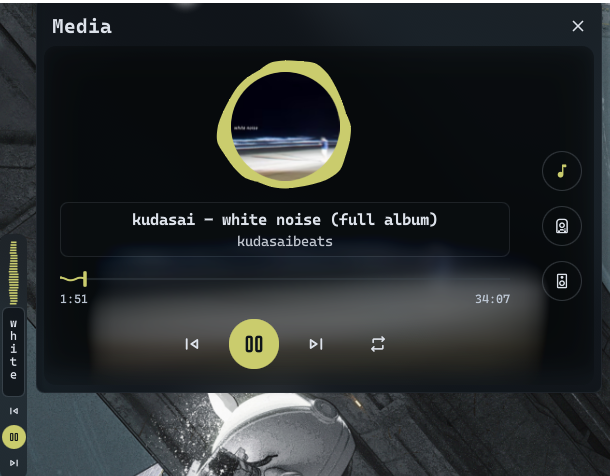
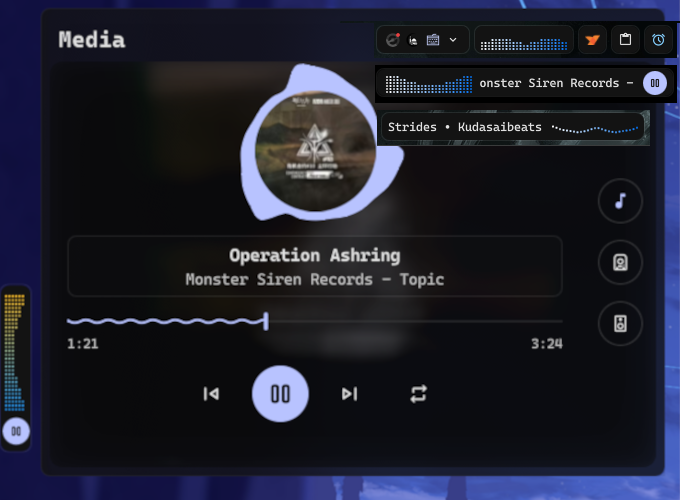
docs: update readme preview

diff --git a/MediaControlPlus/README.md b/MediaControlPlus/README.md
@@ -38,7 +38,9 @@ dms ipc call mediaControlPlus togglePopout
 
 ![media control plus - dotted 2](preview/dotted-style-2.png)
 
-![media control plus - Preview Vertical](preview/vertical.png)
+![media control plus - Preview Vertical 1](preview/vertical.png)
+
+![media control plus - Preview Vertical 2](preview/vertical-2.png)
 
 ![media control plus - Preview Horizontal](preview/horizontal.png)
 